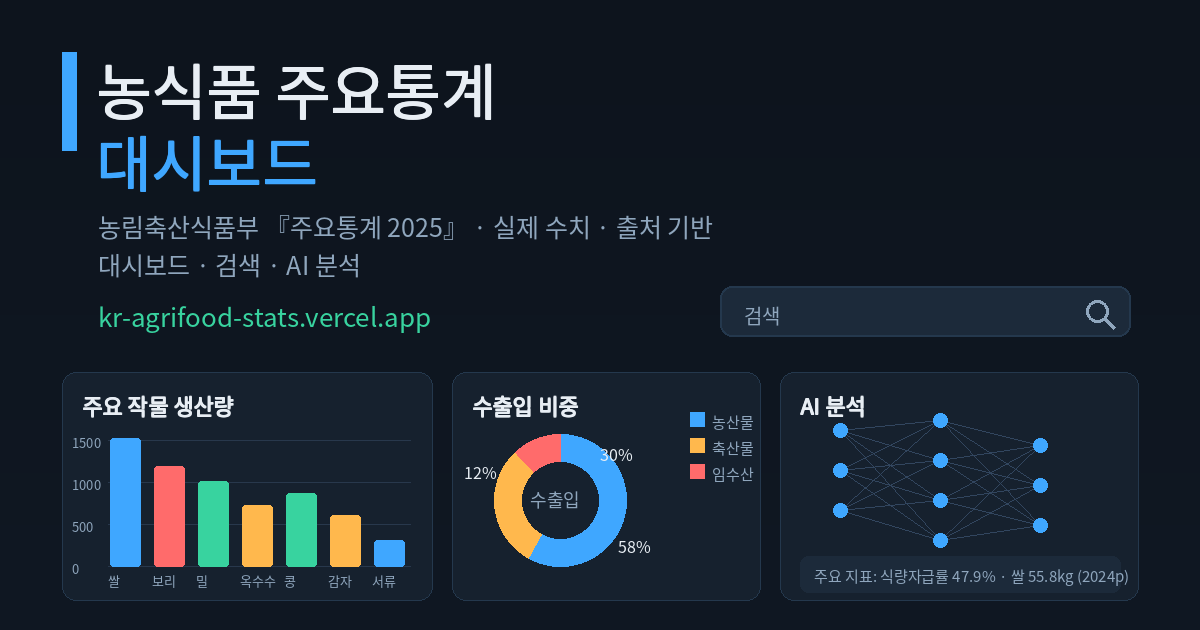
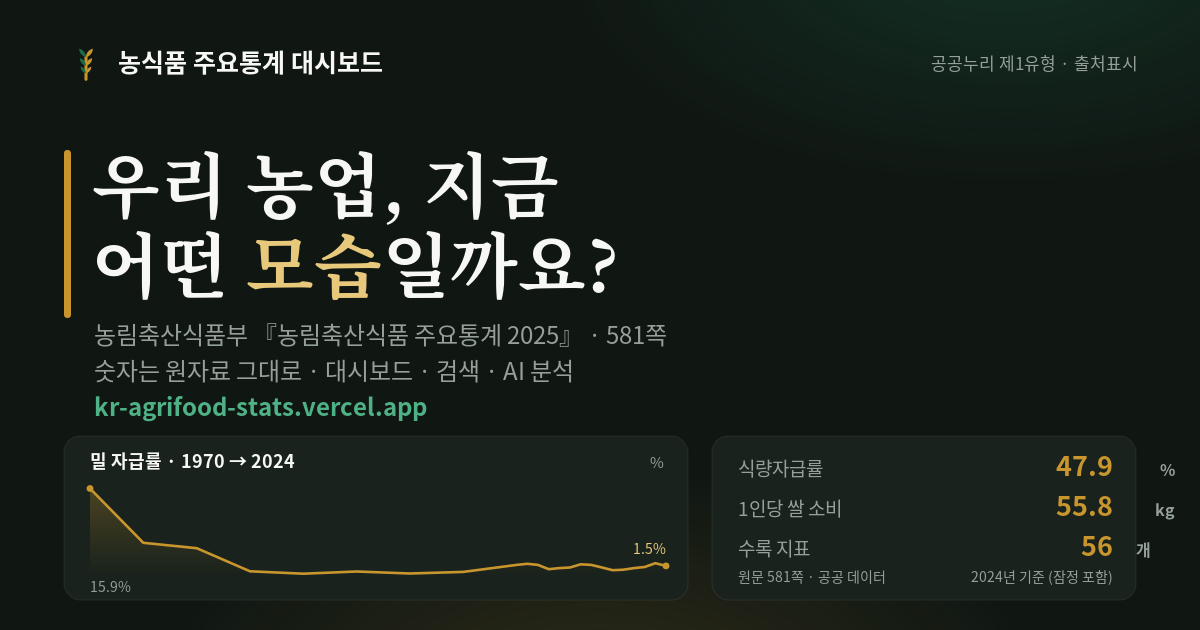
디자인 후속: 파비콘·OG를 신팔레트 밀 이삭 마크로 교체. 파비콘 16px 단순형(SVG+PNG 16/32/180/192), OG는 실데이터(밀 자급률 55년+검증 KPI)로 재제작+메타 보강. 생성 스크립트 brand-src/ 추가

diff --git a/web/index.html b/web/index.html
@@ -5,14 +5,21 @@
 <meta name="viewport" content="width=device-width, initial-scale=1.0">
 <title>농식품 주요통계 대시보드</title>
 <meta name="description" content="농림축산식품부 『농림축산식품 주요통계 2025』를 대시보드·검색·AI 챗봇으로 쉽게. 실제 수치·출처 기반.">
+<link rel="icon" href="/favicon.svg" type="image/svg+xml">
 <link rel="icon" href="/brand/rk-symbol-32.png" type="image/png" sizes="32x32">
+<link rel="icon" href="/brand/rk-symbol-16.png" type="image/png" sizes="16x16">
 <link rel="apple-touch-icon" href="/brand/rk-symbol-180.png">
 <meta property="og:type" content="website">
 <meta property="og:title" content="농식품 주요통계 대시보드">
 <meta property="og:description" content="농림축산식품부 주요통계 2025를 대시보드·검색·AI로. 실제 수치와 출처 기반.">
-<meta property="og:image" content="https://kr-agrifood-stats.vercel.app/og.png">
+<meta property="og:image" content="https://kr-agrifood-stats.vercel.app/og.png?v=2">
+<meta property="og:image:width" content="1200">
+<meta property="og:image:height" content="630">
 <meta property="og:url" content="https://kr-agrifood-stats.vercel.app/">
 <meta name="twitter:card" content="summary_large_image">
+<meta name="twitter:title" content="농식품 주요통계 대시보드">
+<meta name="twitter:description" content="농림축산식품부 주요통계 2025를 대시보드·검색·AI로. 실제 수치와 출처 기반.">
+<meta name="twitter:image" content="https://kr-agrifood-stats.vercel.app/og.png?v=2">
 <link rel="stylesheet" href="https://cdn.jsdelivr.net/gh/orioncactus/pretendard@v1.3.9/dist/web/variable/pretendardvariable-dynamic-subset.min.css">
 <link rel="preconnect" href="https://fonts.googleapis.com">
 <link rel="preconnect" href="https://fonts.gstatic.com" crossorigin>

diff --git a/brand-src/build_og.py b/brand-src/build_og.py
@@ -1,0 +1,91 @@
+# -*- coding: utf-8 -*-
+import cairosvg
+
+INK="#101713"; PANEL="#19221C"; BORDER="rgba(255,255,255,0.07)"
+PAPER="#F7F8F5"; MUTED="#94A099"
+WHEAT="#C9962E"; WSOFT="#E8C87A"; GREEN="#1B6B4A"; ACCENT="#4FB286"; BLUE="#4A7FB5"
+SERIF="Noto Serif CJK KR"; SANS="Noto Sans CJK KR"
+
+# 실제 밀 자급률 시계열 (food_self_suff · 밀)
+wheat=[(1970,15.9),(1975,5.8),(1980,4.8),(1985,0.5),(1990,0.05),(1995,0.47),
+(2000,0.1),(2005,0.4),(2010,1.7),(2011,1.9),(2012,1.7),(2013,0.9),(2014,1.1),
+(2015,1.2),(2016,1.8),(2017,1.7),(2018,1.2),(2019,0.7),(2020,0.8),(2021,1.1),
+(2022,1.3),(2023,2.0),(2024,1.5)]
+
+# ---- 라인 차트 좌표 (패널 P1) ----
+PX,PY,PW,PH=64,436,624,164
+x0,x1=PX+26,PX+PW-22
+y0,yb=PY+52,PY+PH-26      # y0=val16(top), yb=val0(bottom)
+vmax=16.0
+def sx(yr): return x0+(yr-1970)/54.0*(x1-x0)
+def sy(v):  return yb-(min(v,vmax)/vmax)*(yb-y0)
+line=" ".join(("M" if i==0 else "L")+f"{sx(yr):.1f},{sy(v):.1f}" for i,(yr,v) in enumerate(wheat))
+area=f"M{sx(wheat[0][0]):.1f},{yb:.1f} "+" ".join(f"L{sx(yr):.1f},{sy(v):.1f}" for yr,v in wheat)+f" L{sx(wheat[-1][0]):.1f},{yb:.1f} Z"
+dots="".join(f'<circle cx="{sx(yr):.1f}" cy="{sy(v):.1f}" r="3.4" fill="{WHEAT}"/>' for yr,v in [wheat[0],wheat[-1]])
+
+# 밀 이삭 마크 (상세형) — translate/scale
+def mark(cx,cy,s):
+    return (f'<g transform="translate({cx} {cy}) scale({s}) translate(-12 -12)" stroke-linecap="round">'
+    f'<path d="M12 21V8" stroke="{WHEAT}" stroke-width="1.8"/>'
+    f'<path d="M12 8c0-2.5 1.8-4.5 4-5-0 2.5-1.8 4.5-4 5Z" fill="{WHEAT}"/>'
+    f'<path d="M12 8c0-2.5-1.8-4.5-4-5 0 2.5 1.8 4.5 4 5Z" fill="{GREEN}"/>'
+    f'<path d="M12 13c0-2.2 1.6-4 3.6-4.4 0 2.2-1.6 4-3.6 4.4Z" fill="{WHEAT}"/>'
+    f'<path d="M12 13c0-2.2-1.6-4-3.6-4.4 0 2.2 1.6 4 3.6 4.4Z" fill="{GREEN}"/>'
+    f'<path d="M12 17.5c0-1.9 1.4-3.5 3.1-3.9 0 1.9-1.4 3.5-3.1 3.9Z" fill="{WHEAT}"/>'
+    f'<path d="M12 17.5c0-1.9-1.4-3.5-3.1-3.9 0 1.9 1.4 3.5 3.1 3.9Z" fill="{GREEN}"/></g>')
+
+# KPI 패널 P2
+KX,KY,KW,KH=712,436,424,164
+kpis=[("식량자급률","47.9","%"),("1인당 쌀 소비","55.8","kg"),("수록 지표","56","개")]
+krows=""
+for i,(lab,num,suf) in enumerate(kpis):
+    ry=KY+40+i*40
+    krows+=(f'<text x="{KX+26}" y="{ry}" font-family="{SANS}" font-size="19" fill="{MUTED}">{lab}</text>'
+            f'<text x="{KX+KW-24}" y="{ry}" font-family="{SANS}" font-weight="700" font-size="27" fill="{PAPER}" text-anchor="end">'
+            f'<tspan fill="{WHEAT}">{num}</tspan> <tspan font-size="16" fill="{MUTED}">{suf}</tspan></text>')
+
+svg=f'''<svg xmlns="http://www.w3.org/2000/svg" width="1200" height="630" viewBox="0 0 1200 630">
+<defs>
+ <radialGradient id="g1" cx="50%" cy="112%" r="62%"><stop offset="0%" stop-color="{WHEAT}" stop-opacity="0.16"/><stop offset="60%" stop-color="{WHEAT}" stop-opacity="0"/></radialGradient>
+ <radialGradient id="g2" cx="84%" cy="-8%" r="60%"><stop offset="0%" stop-color="{GREEN}" stop-opacity="0.30"/><stop offset="62%" stop-color="{GREEN}" stop-opacity="0"/></radialGradient>
+ <linearGradient id="wf" x1="0" y1="0" x2="0" y2="1"><stop offset="0%" stop-color="{WHEAT}" stop-opacity="0.28"/><stop offset="100%" stop-color="{WHEAT}" stop-opacity="0"/></linearGradient>
+</defs>
+<rect width="1200" height="630" fill="{INK}"/>
+<rect width="1200" height="630" fill="url(#g1)"/>
+<rect width="1200" height="630" fill="url(#g2)"/>
+
+<!-- 헤더 -->
+{mark(86,64,1.7)}
+<text x="118" y="72" font-family="{SANS}" font-weight="600" font-size="25" fill="{PAPER}">농식품 주요통계 대시보드</text>
+<text x="1136" y="70" font-family="{SANS}" font-size="17" fill="{MUTED}" text-anchor="end">공공누리 제1유형 · 출처표시</text>
+
+<!-- 히어로 타이틀 -->
+<rect x="64" y="150" width="7" height="168" rx="3" fill="{WHEAT}"/>
+<text x="92" y="212" font-family="{SERIF}" font-weight="700" font-size="70" fill="{PAPER}">우리 농업, 지금</text>
+<text x="92" y="292" font-family="{SERIF}" font-weight="700" font-size="70" fill="{PAPER}">어떤 <tspan fill="{WSOFT}">모습</tspan>일까요?</text>
+
+<!-- 서브 -->
+<text x="94" y="344" font-family="{SANS}" font-size="24" fill="{MUTED}">농림축산식품부 『농림축산식품 주요통계 2025』 · 581쪽</text>
+<text x="94" y="380" font-family="{SANS}" font-size="24" fill="{MUTED}">숫자는 원자료 그대로 · 대시보드 · 검색 · AI 분석</text>
+<text x="94" y="416" font-family="{SANS}" font-weight="600" font-size="24" fill="{ACCENT}">kr-agrifood-stats.vercel.app</text>
+
+<!-- 패널1: 밀 자급률 라인 -->
+<rect x="{PX}" y="{PY}" width="{PW}" height="{PH}" rx="16" fill="{PANEL}" stroke="{BORDER}"/>
+<text x="{PX+26}" y="{PY+32}" font-family="{SANS}" font-weight="600" font-size="18" fill="{PAPER}">밀 자급률 · 1970 → 2024</text>
+<text x="{PX+PW-24}" y="{PY+32}" font-family="{SANS}" font-size="15" fill="{MUTED}" text-anchor="end">%</text>
+<path d="{area}" fill="url(#wf)"/>
+<path d="{line}" fill="none" stroke="{WHEAT}" stroke-width="2.6" stroke-linejoin="round" stroke-linecap="round"/>
+{dots}
+<text x="{sx(1970):.0f}" y="{yb+18:.0f}" font-family="{SANS}" font-size="14" fill="{MUTED}">15.9%</text>
+<text x="{sx(2024):.0f}" y="{sy(1.5)-12:.0f}" font-family="{SANS}" font-size="14" fill="{WSOFT}" text-anchor="end">1.5%</text>
+
+<!-- 패널2: KPI -->
+<rect x="{KX}" y="{KY}" width="{KW}" height="{KH}" rx="16" fill="{PANEL}" stroke="{BORDER}"/>
+{krows}
+<text x="{KX+26}" y="{KY+KH-18}" font-family="{SANS}" font-size="14" fill="{MUTED}">원문 581쪽 · 공공 데이터</text>
+<text x="{KX+KW-24}" y="{KY+KH-18}" font-family="{SANS}" font-size="14" fill="{MUTED}" text-anchor="end">2024년 기준 (잠정 포함)</text>
+</svg>'''
+
+open("/tmp/og.svg","w",encoding="utf-8").write(svg)
+cairosvg.svg2png(url="/tmp/og.svg", write_to="/tmp/og_new.png", output_width=1200, output_height=630)
+print("OG rendered")

diff --git a/brand-src/README.md b/brand-src/README.md
@@ -1,0 +1,16 @@
+# 브랜드 에셋 생성 (디자인 리뉴얼 v1)
+
+- `../web/favicon.svg` — 파비콘 마스터(밀 이삭, 골드+그린). 단순형(16px 가독).
+- `build_og.py` — OG 이미지(1200×630) 생성. 실제 밀 자급률 시계열 + 검증 KPI.
+
+## 재생성
+```bash
+pip install cairosvg --break-system-packages
+# 파비콘 PNG (16/32/180/192)
+python3 -c "import cairosvg;[cairosvg.svg2png(url='../web/favicon.svg',write_to=f'../web/brand/rk-symbol-{s}.png',output_width=s,output_height=s) for s in (16,32,180,192)]"
+# OG
+python3 build_og.py   # /tmp/og_new.png → ../web/og.png 로 복사
+```
+한글 렌더에는 Noto Serif/Sans CJK KR 폰트 필요.
+포함 수치(2024): 식량자급률 47.9% · 1인당 쌀 소비 55.8kg · 밀 자급률 15.9%→1.5% · 지표 56.
+※ 푸터 서명 심볼(web/brand/rk-symbol.png = RichardKim ㄹㅊㄷㅋ)은 앱 파비콘과 별개로 유지.
